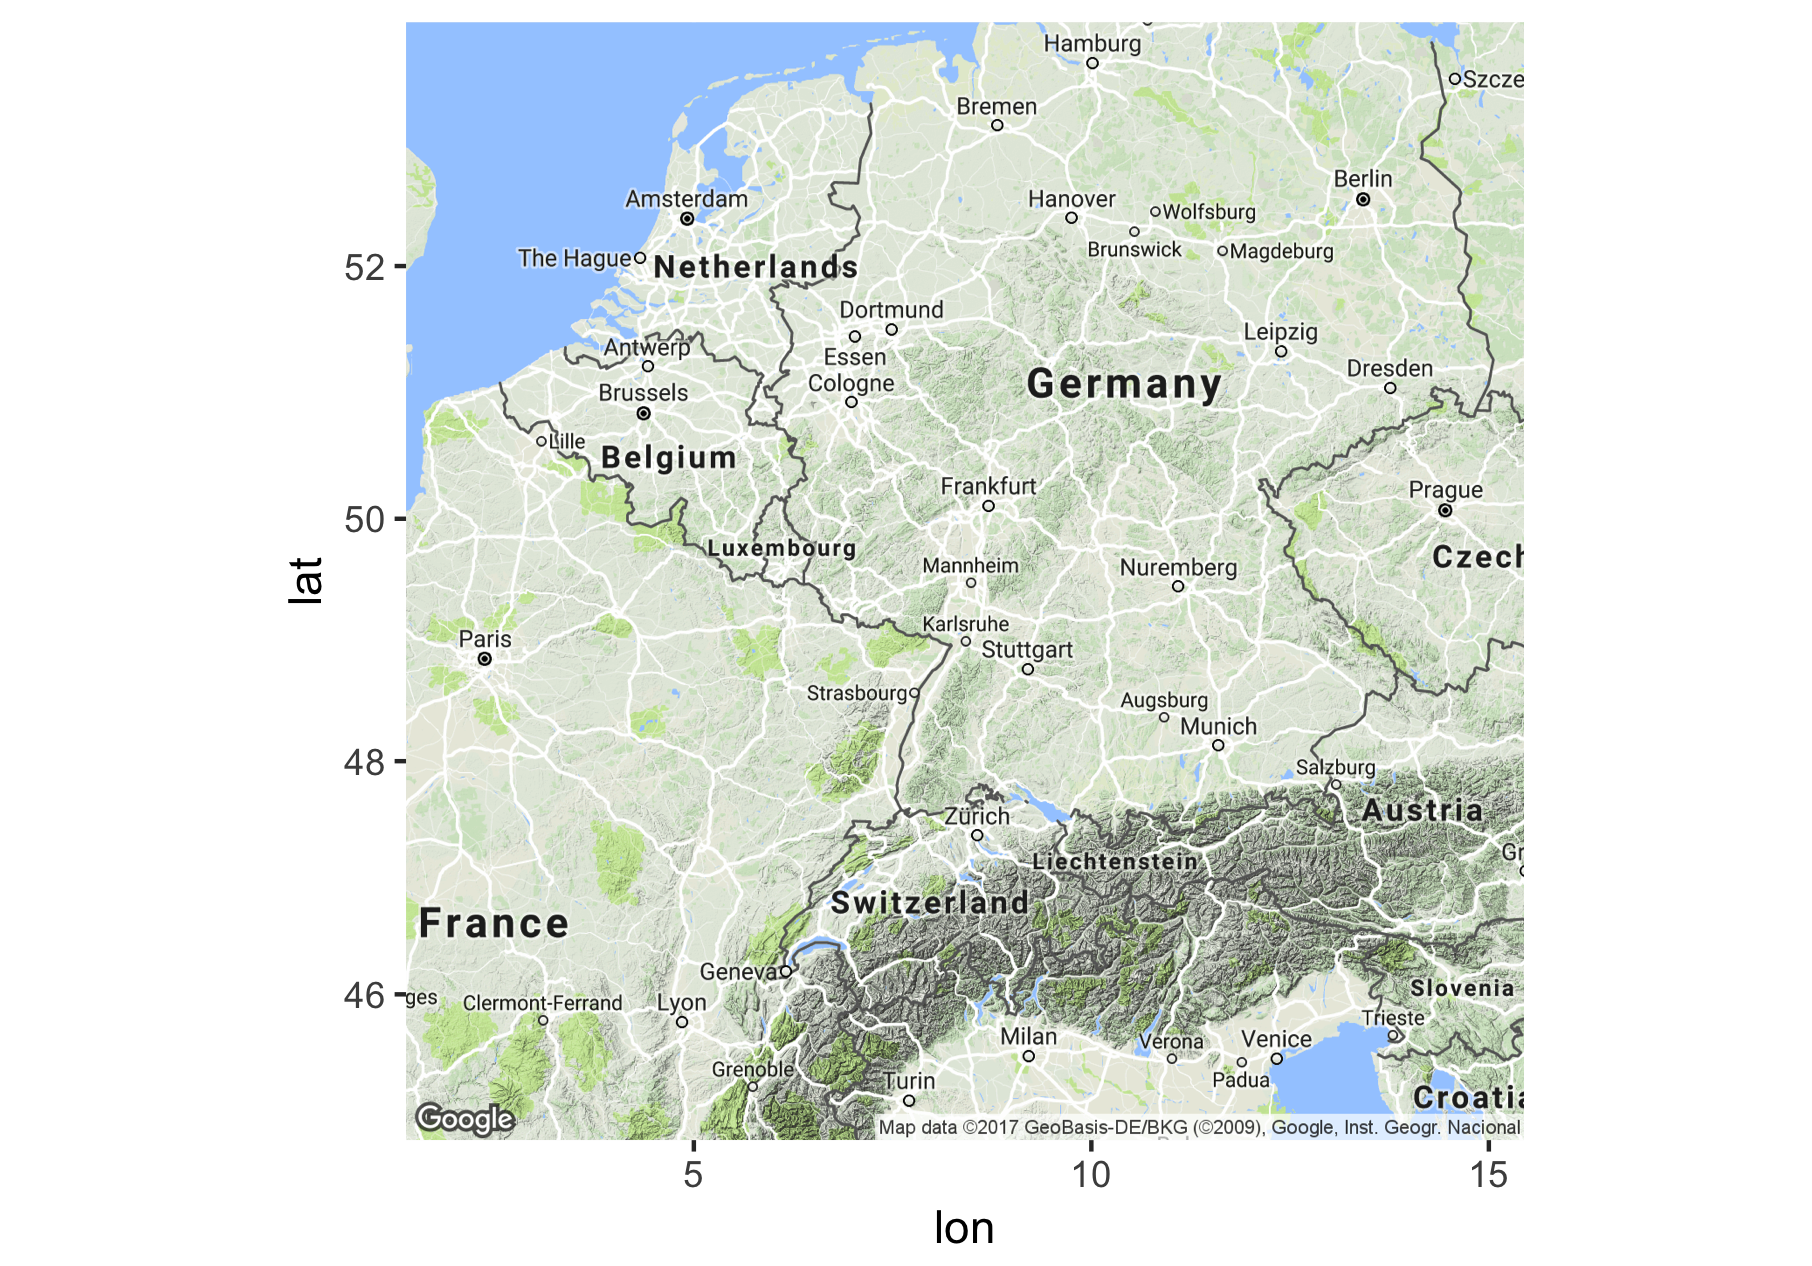
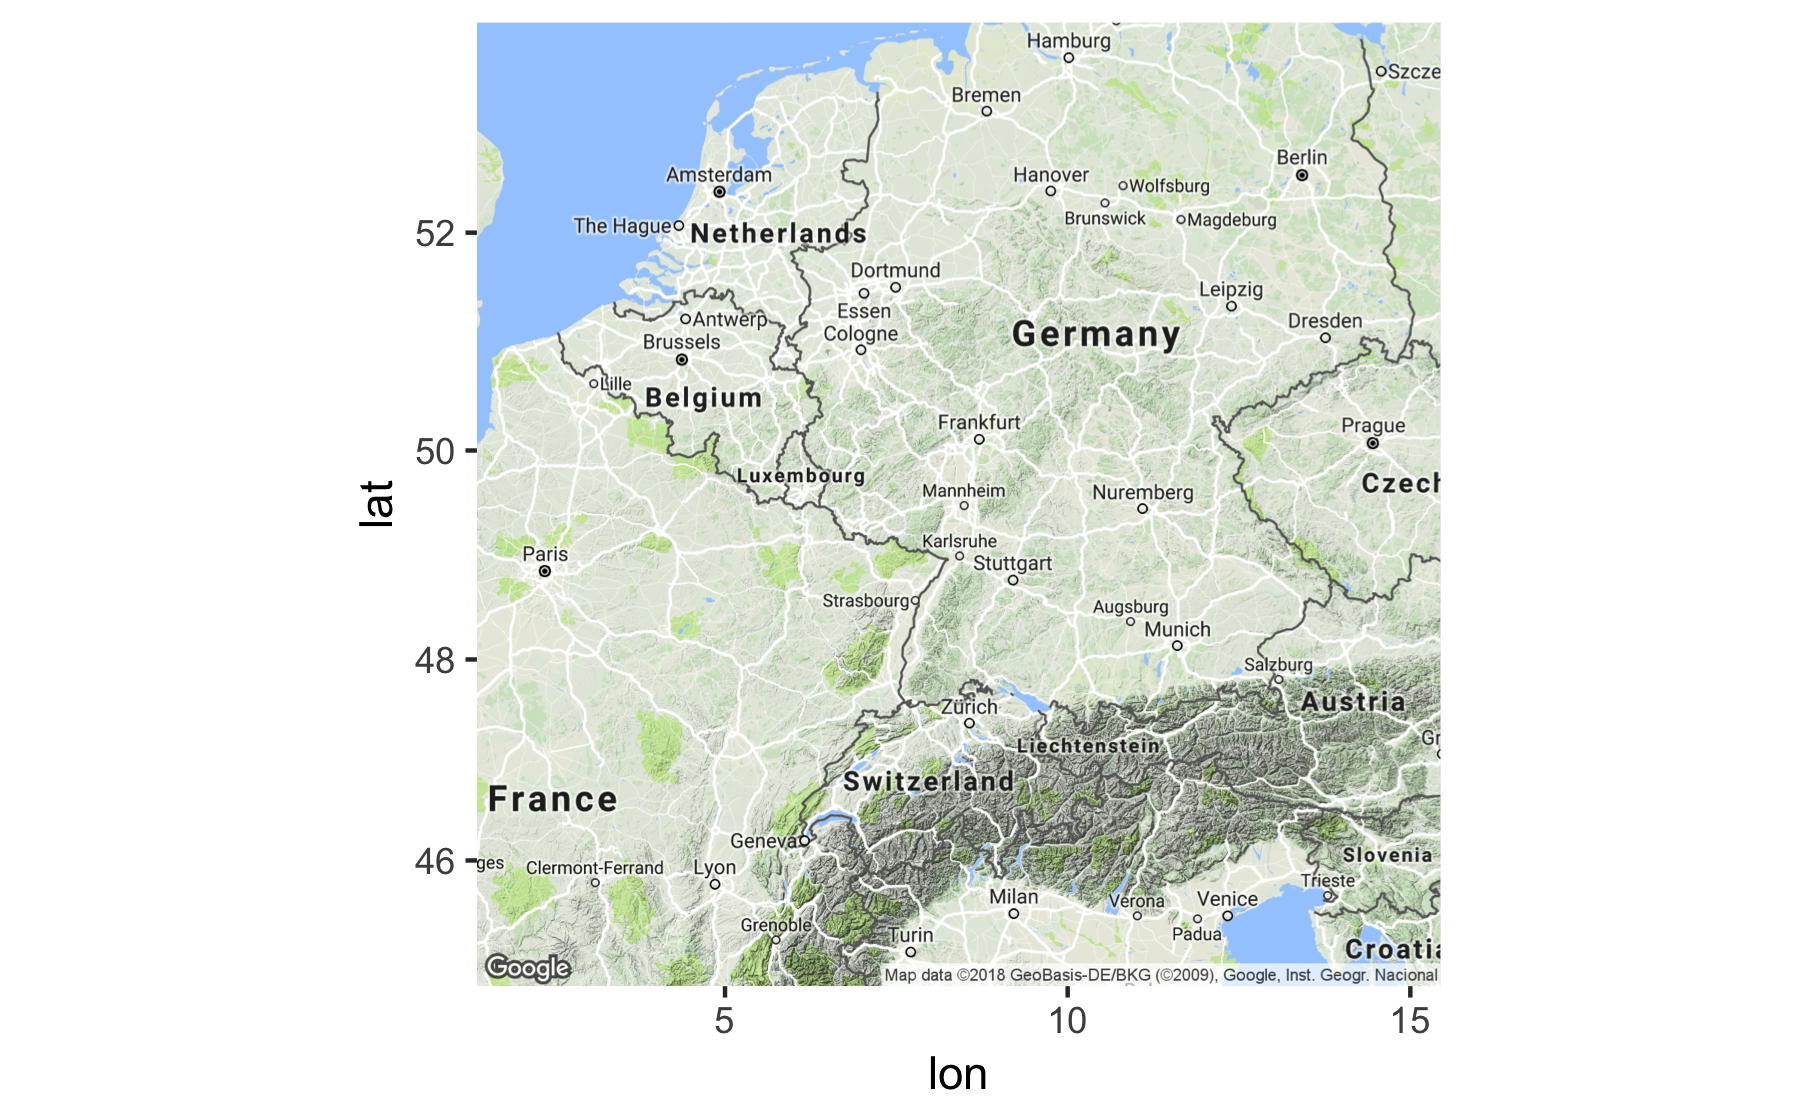
Change ggmap images for geocoding with R

Changed region(s): [[0.1556, 0.0, 0.84, 0.9478], [0.4978, 0.9478, 0.56, 0.9784]]

diff --git a/content/post/geocoding-with-r.md b/content/post/geocoding-with-r.md
@@ -215,7 +215,7 @@ We can look at what the map looks like by calling the `ggmap()` function.
 ggmap(map)
 ```
 
-<img src="/img/geocoding-with-r/google-map.png" height="500" />
+<img src="/img/geocoding-with-r/google-map.png" />
 
 Given the historical nature of the data, some of the normal features of a Google Map are problematic. The modern road system obviously did not exist in the sixteenth century, nor are the modern political boundaries useful for the data. In the below command, I change the aesthetics of the original map using the color argument and turn off features of the map by using commands from the [Google Maps API](https://developers.google.com/maps/documentation/staticmaps/).
 
@@ -232,7 +232,7 @@ ggmap(bw_map) +
   geom_point(data = locations, aes(x = lon, y = lat))
 ```
 
-<img src="/img/geocoding-with-r/locations-map.png" height="500" />
+<img src="/img/geocoding-with-r/locations-map.png" />
 
 The resulting map is rather sparse and does not provide much information, but it gives a good starting point from which to build a more informative map.
 
@@ -293,19 +293,19 @@ I now have the necessary data to create a map that will distinguish between the 
 Creating a quality visualization with `ggplot` involves iteration. Because the different parts of the plot are all written out in code, aspects can be added, subtracted, or modified until a good balance is found. Let's start by creating a basic map using the `geo_per_source` and `geo_per_destination` data. The structure of the command is similar to that used to make the first map, but now that I am using information from two data frames, I need to use two `geom_point()` functions. There is also a small change to the `ggmap()` function to have the map take up the entire plotting area so that the longitude and latitude scales do not show. The only change to the `geom_point()` function is the addition of different colors for the two sets of points. This makes it easier to distinguish between places from which Daniel's correspondents sent letters and places where he received them. Notice that the argument for the color of the points is placed outside of the `aes()` function. This makes all of the points plotted from each data frame a single color as opposed to mapping a change in color to a variable within the data. In this instance, I chose to specify color by name, but it is also possible to use rgb values, hex values, or a number of different color palettes.[^11]
 
 ``` {.r}
-ggmap(bw_map, extent = "device") +
+ggmap(bw_map) +
   geom_point(data = geo_per_destination,
              aes(x = lon, y = lat), color = "red") +
   geom_point(data = geo_per_source,
              aes(x = lon, y = lat), color = "purple")
 ```
 
-<img src="/img/geocoding-with-r/data-map1.png" height="500" />
+<img src="/img/geocoding-with-r/data-map1.png" height="600" />
 
 This plot is much better than what we started with, but it still has a couple of issues. In the first place, it does not communicate any information about the quantity of letters. In addition, because the points are opaque, it is not clear that letters were both sent from and to Haarlem. The former issue can be rectified by using the size argument within the `aes()` function. This will tell `ggplot` to vary the size of each of the points in proportion to the count column. By default, the size aesthetic creates a legend to indicate the scale used. In the `ggmap()` function I place the legend in the top right corner of the map since there are no data points there. The latter issue is solved by adding an alpha argument to the two `geom_point()` functions. This argument is placed outside of the `aes()` function, because it is an aspect we want to apply to all points. [Alpha](https://www.w3schools.com/css/css3_colors.asp) describes the translucency of an object and takes values between 1 (opaque) and 0 (translucent).
 
 ``` {.r}
-ggmap(bw_map, extent = "device", legend = "topright") +
+ggmap(bw_map) +
   geom_point(data = geo_per_destination,
              aes(x = lon, y = lat, size = count),
              color = "red", alpha = 0.5) +
@@ -314,7 +314,7 @@ ggmap(bw_map, extent = "device", legend = "topright") +
              color = "purple", alpha = 0.5)
 ```
 
-<img src="/img/geocoding-with-r/data-map2.png" height="500" />
+<img src="/img/geocoding-with-r/data-map2.png" height="600" />
 
 The above map is more informative, but it is hardly a finished product. For instance, there is no explanation for the differences in the color of the points, the smallest points are not easy to see, and there are no labels to indicate the names of the cities. Let's deal with these issues one at a time to create a more fully fleshed out map. This will serve as an opportunity to demonstrate both the flexibility and complexity of `ggplot` code.[^12]
 
@@ -331,7 +331,7 @@ library(ggrepel)
 ```
 
 ``` {.r}
-ggmap(bw_map, extent = "device", legend = "topright") +
+ggmap(bw_map) +
   geom_point(data = geo_per_destination,
              aes(x = lon, y = lat, size = count, color = "Destination"), 
              alpha = 0.5) +
@@ -347,7 +347,7 @@ ggmap(bw_map, extent = "device", legend = "topright") +
   guides(color = guide_legend(override.aes = list(size = 6)))
 ```
 
-<img src="/img/geocoding-with-r/data-map3.png" height="550" />
+<img src="/img/geocoding-with-r/data-map3.png" height="600" />
 
 ## Conclusion {#concluding}
 The above map demonstrates the geographic spread of Daniel van der Meulen’s correspondence in 1585 and shows the relative significance of the location of his correspondents and the different places in which he received letters throughout the year. More important than the details of the map for the purposes of this post is the process by which it was created. One interesting feature that I would like to emphasize in concluding is that the map uses data from three different data frames or tables: `geo_per_destination`, `geo_per_source`, and `locations`. All three of these data frames derive from the original `letters` data, while they in turn were the product of yet more data frames. By my count, running the commands contained in this post leads to the creation of 12 different data frame like objects. The below diagram outlines the workflow. The ability to split, subset, transform, and then join newly created tables in a variety of ways is a very powerful and flexible workflow. Because the data frames can be recreated by running the code, there is minimal overhead in managing them, especially in comparison to creating tables within spreadsheets. In this case, I would only recommend that the `locations` data frame be saved for easy access in other R scripts and sessions. The other objects can be created on demand, or even more can be added, while the individual aspects of the map can be endlessly tweaked using the power of `ggplot`.

diff --git a/content/project/df-inheritance.md b/content/project/df-inheritance.md
@@ -3,7 +3,7 @@ author: Jesse Sadler
 date: 2017-10-19T16:38:18-07:00
 description: "A Digital Humanities project on the account books of the estate of an early modern merchant using R"
 draft: false
-title: "The Estate of Jan della Faille de Oude, 1582–1594"
+title: "The Estate of Jan della Faille de Oude, 1582–1617"
 subtitle: ""
 ---
 
@@ -22,7 +22,7 @@ The spectacular accumulation of wealth by merchants such as Jan de Oude notwiths
 The disagreements between the children of Jan de Oude led to the creation of a plethora of documents that make it possible to follow both the arguments between the siblings and the financial aspects of the estate. This project concentrates on the latter aspect of the inheritance of the Della Faille siblings. This project uses the [R programming language](https://www.r-project.org) to analyze the accounts of the estate contained in two large ledgers made in 1583 and 1594. The ledgers used [double-entry bookkeeping](https://en.wikipedia.org/wiki/Double-entry_bookkeeping_system) to keep track of the accounts and recorded values in terms of the Flemish pound. The first account book of the estate recorded transactions from the date of Jan de Oude's death on 8 November 1583 until 26 December 1583. The second book follows the estate from the end of the first book until the end of 1594. The books show that the estate of Jan de Oude had a value of over £82,000 Flemish at the time of his death in a period in which a skilled laborer might expect a yearly wage of £45 Flemish. In all, the two ledgers record over 2,100 transactions between 480 separate accounts.
 
 ### Methodology
-This digital humanities project uses R to better understand the nature of the estate of Jan de Oude and the means by which the heirs received their inheritance over a twelve year period. The complexity of the accounts of the estate make a digital approach to analyzing the estate particularly useful. The first step for this project was data entry of the 2,100 transactions from the two books. The data entry process resulted in the creation of two tables that were structured to work with network analysis. The first lists the accounts in the books of the estate along with information pertinent to that account. The second table lists the 2,100 transactions between accounts. Following the language of double-entry bookkeeping, accounts that received a value are in debt to the account that sent the value. Values of the transactions were recorded in money of account system of [pounds, shillings, and pence](https://en.wikipedia.org/wiki/£sd).
+This digital humanities project uses R to better understand the nature of the estate of Jan de Oude and the means by which the heirs received their inheritance over a twelve year period. The complexity of the accounts of the estate make a digital approach to analyzing the estate particularly useful. The first step for this project was data entry of the 2,100 transactions from the two books. The data entry process resulted in the creation of two tables that were structured to work with network analysis. The first lists the accounts in the books of the estate along with information pertinent to that account. The second table contains the transactions between accounts. Following the language of double-entry bookkeeping, accounts that received a value are in debt to the account that sent the value. Values of the transactions were recorded in money of account system of Flemish [pounds, shillings, and pence](https://en.wikipedia.org/wiki/£sd).
 
 Analysis of early modern double-entry bookkeeping with modern statistical software creates specific challenges. In particular, the use the non-decimal monetary system of pounds, shillings, and pence makes even simple addition and subtraction non-trivial. Therefore, before any statistical analysis or visualization could be done, it was necessary to write R functions that could deal with a non-decimal monetary system. This project contains a series of R functions that facilitate working with a monetary system in which one pound is equivalent to 20 shillings, and one shilling is equal to 12 pence.
 
